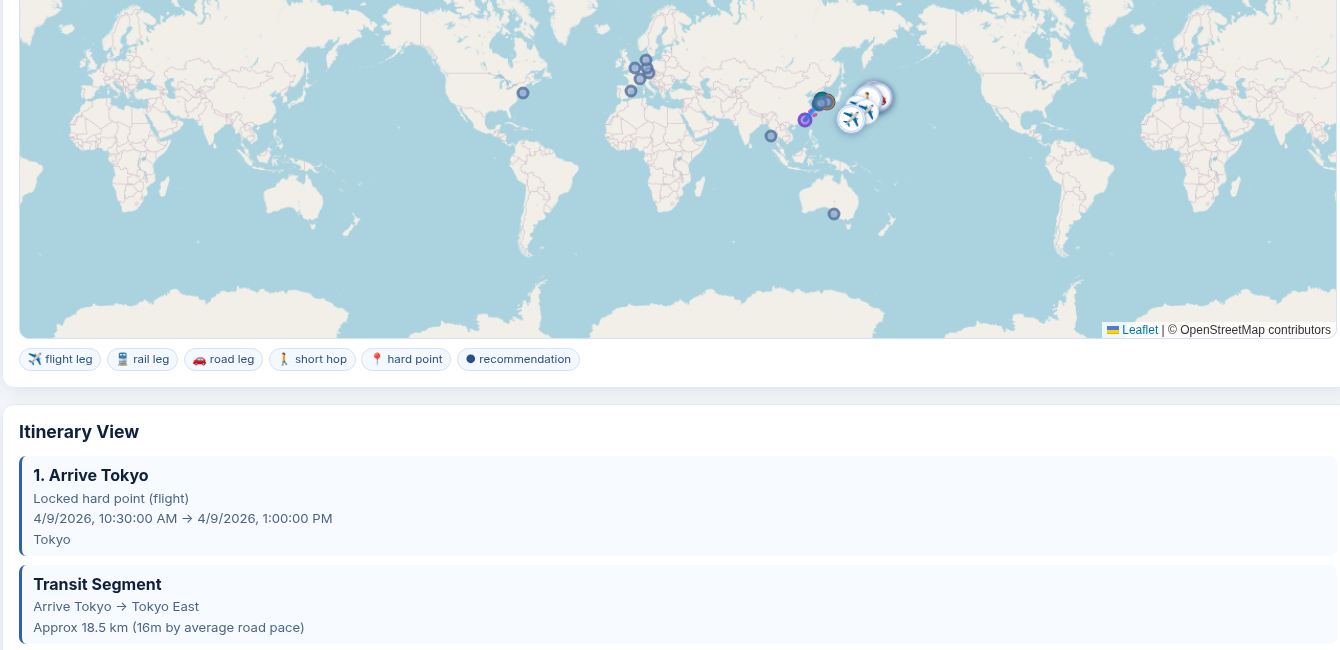
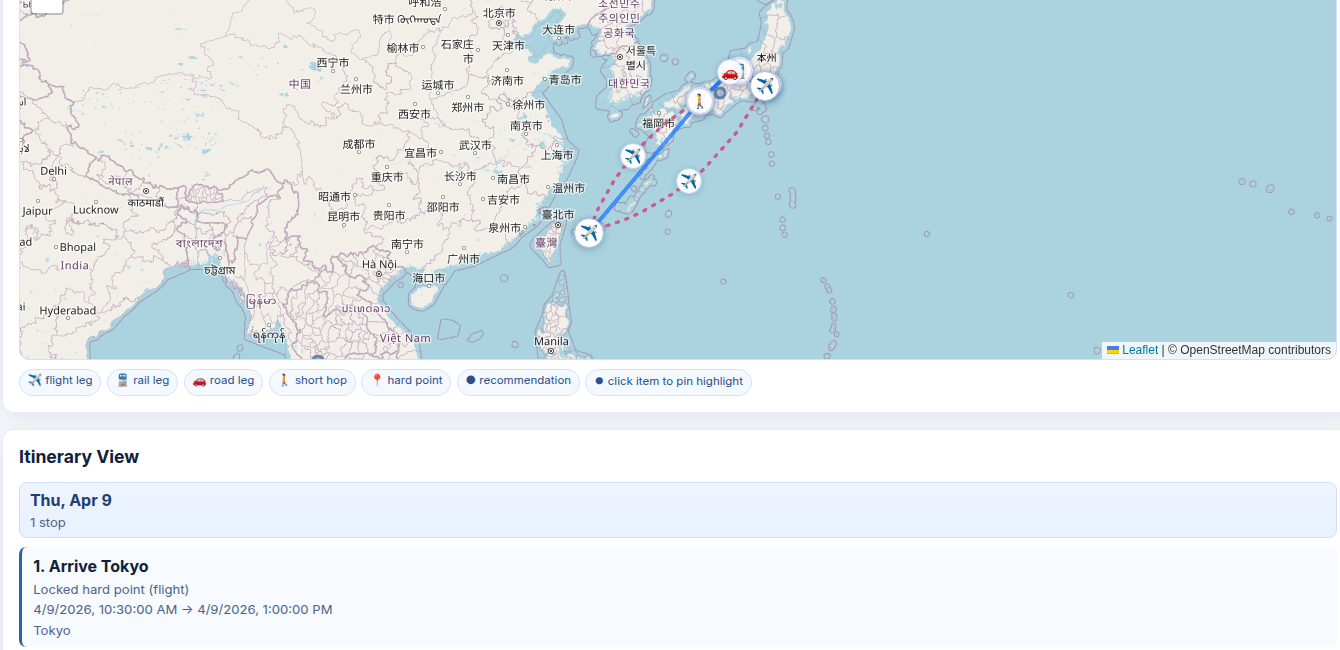
Add repeatable screenshot iteration workflow and refreshed hero captures

diff --git a/screenshots/bootstrap-demo.html b/screenshots/bootstrap-demo.html
@@ -1,0 +1,167 @@
+<!doctype html>
+<html lang="en">
+<head>
+  <meta charset="utf-8">
+  <meta name="viewport" content="width=device-width, initial-scale=1">
+  <title>TripMind demo bootstrap</title>
+</head>
+<body>
+  <p>Loading demo state…</p>
+  <script>
+    const STORAGE_KEY = "mindtrip_state_v1";
+    const state = {
+      profile: {
+        name: "Alex Explorer",
+        homeBase: "Berlin",
+        budget: "mid",
+        pace: "balanced",
+        interests: ["architecture", "hiking", "art", "food", "events"],
+      },
+      tripContext: {
+        startDate: "2026-04-09",
+        endDate: "2026-05-01",
+        primaryDestination: "Japan",
+        mustInclude: ["architecture", "hike", "art", "onsen"],
+        avoid: ["crowded tours"],
+        styleNotes: "Two anchor experiences per day with flexible evenings.",
+        likedExamples: [
+          "MTB downhill near a volcano in Arequipa",
+          "Insel Hombroich and Boros collection",
+          "Hiking near Karakol",
+        ],
+        inferredIdeas: ["Tokyo urban + design", "Naoshima art immersion", "island buffer days"],
+      },
+      conversation: {
+        mode: "main-planning",
+        sideTrackTopic: "",
+        messages: [
+          {
+            id: "msg-demo-1",
+            role: "assistant",
+            text: "I prepared high-fit directions. Click one option to pin linked highlights across map, itinerary and cards.",
+            when: "2026-03-15T10:00:00.000Z",
+            options: [
+              {
+                id: "conv-opt-1",
+                entityKey: "llm-1",
+                linkKey: "link:naoshima-art-loop@naoshima",
+                title: "Naoshima art loop",
+                kind: "activity",
+                city: "Naoshima",
+                reason: "High fit with architecture + contemporary art taste.",
+                tags: ["art", "architecture", "museum"],
+              },
+              {
+                id: "conv-opt-2",
+                entityKey: "ev-1",
+                linkKey: "link:shimokitazawa-night-jazz@tokyo",
+                title: "Shimokitazawa night jazz",
+                kind: "event",
+                city: "Tokyo",
+                reason: "Event-led evening with low transition cost.",
+                tags: ["event", "music", "nightlife"],
+              },
+            ],
+          },
+        ],
+        learnedLikes: { architecture: 5, art: 4, hike: 3, market: 2 },
+        learnedDislikes: { crowded: 2 },
+      },
+      hardPoints: [
+        { id: "hp-1", title: "Arrive Tokyo", type: "flight", start: "2026-04-09T10:30", end: "2026-04-09T13:00", city: "Tokyo", locationLabel: "Haneda Airport", lat: 35.5494, lng: 139.7798, bookingRef: "HND409", notes: "Airport transfer booked", createdAt: "2026-03-01T10:00:00.000Z" },
+        { id: "hp-2", title: "Alpine Route day", type: "tour", start: "2026-04-16T07:00", end: "2026-04-16T20:00", city: "Toyama", locationLabel: "Tateyama Kurobe Alpine Route", lat: 36.5753, lng: 137.4812, bookingRef: "ALP416", notes: "Fixed booking", createdAt: "2026-03-01T10:01:00.000Z" },
+        { id: "hp-3", title: "Naoshima stay", type: "hotel", start: "2026-04-19T15:00", end: "2026-04-23T10:00", city: "Naoshima", locationLabel: "Honmura district", lat: 34.4592, lng: 133.9978, bookingRef: "NSH419", notes: "Island base", createdAt: "2026-03-01T10:02:00.000Z" },
+        { id: "hp-4", title: "Fly to Ishigaki", type: "flight", start: "2026-04-23T12:30", end: "2026-04-23T15:30", city: "Ishigaki", locationLabel: "Painushima Ishigaki Airport", lat: 24.3968, lng: 124.2451, bookingRef: "ISG423", notes: "", createdAt: "2026-03-01T10:03:00.000Z" },
+        { id: "hp-5", title: "Fly back Tokyo", type: "flight", start: "2026-04-26T11:00", end: "2026-04-26T14:00", city: "Tokyo", locationLabel: "Haneda Airport", lat: 35.5494, lng: 139.7798, bookingRef: "HND426", notes: "", createdAt: "2026-03-01T10:04:00.000Z" },
+      ],
+      routeSets: [
+        {
+          id: "set-1",
+          name: "Japan main route",
+          description: "Primary hubs and transitions",
+          active: true,
+          createdAt: "2026-03-01T10:05:00.000Z",
+          nodes: [
+            { id: "node-1", title: "Tokyo East", type: "district", city: "Tokyo", locationLabel: "Asakusa + Ueno belt", lat: 35.7156, lng: 139.7967, start: "2026-04-10T09:00", end: "", notes: "", tags: ["architecture", "market"], sourceKind: "route-node", createdAt: "2026-03-01T10:05:30.000Z" },
+            { id: "node-2", title: "Kanazawa art day", type: "main-location", city: "Kanazawa", locationLabel: "21st Century Museum area", lat: 36.5608, lng: 136.6566, start: "2026-04-17T10:00", end: "", notes: "", tags: ["art", "design"], sourceKind: "route-node", createdAt: "2026-03-01T10:06:00.000Z" },
+          ],
+        },
+      ],
+      plannedStops: [
+        { id: "plan-1", title: "Boros-style private collection visit", type: "art", sourceKind: "llm-itinerary", start: "2026-04-11T14:00", end: "2026-04-11T16:00", city: "Tokyo", locationLabel: "Roppongi contemporary gallery", lat: 35.6629, lng: 139.7312, bookingRef: "", notes: "Generated from taste memory", createdAt: "2026-03-01T10:07:00.000Z" },
+        { id: "plan-2", title: "Chiba village overnight (no planning)", type: "no-planning", sourceKind: "interleave", start: "2026-04-14T18:00", end: "2026-04-15T10:00", city: "Chiba", locationLabel: "Countryside stay", lat: 35.6074, lng: 140.1065, bookingRef: "", notes: "", createdAt: "2026-03-01T10:08:00.000Z" },
+        { id: "plan-3", title: "Naoshima architecture bike circuit", type: "hike", sourceKind: "detail-stop", start: "2026-04-20T09:00", end: "2026-04-20T13:00", city: "Naoshima", locationLabel: "Art House Project + coast route", lat: 34.4596, lng: 133.9967, bookingRef: "", notes: "", createdAt: "2026-03-01T10:09:00.000Z" },
+        { id: "plan-4", title: "Ishigaki reef + hill trail", type: "nature", sourceKind: "llm-itinerary", start: "2026-04-24T08:30", end: "2026-04-24T14:00", city: "Ishigaki", locationLabel: "Kabira Bay + Nosoko hike", lat: 24.4509, lng: 124.1572, bookingRef: "", notes: "", createdAt: "2026-03-01T10:10:00.000Z" },
+      ],
+      softPois: [
+        { id: "poi-1", title: "Shimokitazawa night jazz", kind: "event", sourceKind: "event", city: "Tokyo", locationQuery: "Shimokitazawa jazz club", startHint: "2026-04-12T20:30", notes: "Tentative option", tags: ["event", "music", "nightlife"], lat: 35.6617, lng: 139.6689, createdAt: "2026-03-01T10:11:00.000Z" },
+      ],
+      customSuggestions: [
+        { id: "custom-1", title: "Tokyo brutalist architecture walk", city: "Tokyo", tags: ["architecture", "walking"], budget: "mid", pace: "balanced", type: "custom", lat: 35.6702, lng: 139.7631, description: "User-created suggestion." },
+      ],
+      lastPlaces: [
+        { id: "lp-1", title: "TeamLab Borderless", city: "Tokyo", kind: "main-location", category: "art", description: "Immersive art museum", tags: ["art", "museum"], lat: 35.6269, lng: 139.7845 },
+        { id: "lp-2", title: "Naoshima Art House", city: "Naoshima", kind: "trip", category: "architecture", description: "Island art route", tags: ["architecture", "art"], lat: 34.4602, lng: 133.9956 },
+      ],
+      lastEvents: [
+        { id: "ev-1", title: "Shimokitazawa Night Jazz", city: "Tokyo", date: "2026-04-12", category: "music", venue: "Basement stage", tags: ["music", "nightlife"], lat: 35.6618, lng: 139.6687 },
+      ],
+      lastLlmResults: [
+        { id: "llm-1", title: "Naoshima art loop", kind: "main-location", city: "Naoshima", date: "2026-04-20", startHint: "2026-04-20T09:00", tags: ["art", "architecture"], description: "High-fit match", locationQuery: "Naoshima", lat: 34.4598, lng: 133.9974 },
+      ],
+      lastUnifiedSearch: {
+        query: "architecture + event mix",
+        routeNodes: [{ id: "ur-1", title: "Kanazawa design district", city: "Kanazawa", kind: "main-location", tags: ["design", "architecture"], description: "Route-level candidate", lat: 36.5621, lng: 136.6624 }],
+        detailStops: [{ id: "ud-1", title: "Ando museum stop", city: "Naoshima", kind: "detail-place", tags: ["architecture", "museum"], description: "Detail candidate", lat: 34.4588, lng: 133.9972 }],
+        generatedAt: "2026-03-15T10:20:00.000Z",
+      },
+      outlineDraft: {
+        blocks: [
+          { id: "outline-1", label: "Tokyo pre-Alpine", start: "2026-04-10T08:00:00.000Z", end: "2026-04-15T20:00:00.000Z", hours: 84, city: "Tokyo", theme: "architecture", reason: "Urban + market balance", tags: ["architecture", "market"] },
+          { id: "outline-2", label: "Post-Naoshima buffer", start: "2026-04-23T16:00:00.000Z", end: "2026-04-26T10:00:00.000Z", hours: 66, city: "Ishigaki", theme: "nature", reason: "Recovery + adventure mix", tags: ["nature", "hike"] },
+        ],
+        strategies: [
+          { id: "strategy-1", title: "Balanced mix: architecture + food", reason: "Day split with flexible evenings", tags: ["architecture", "food", "balanced"] },
+          { id: "strategy-2", title: "Event-led evenings", reason: "Keep afternoons open for local events", tags: ["event", "nightlife", "music"] },
+          { id: "strategy-3", title: "Nature-heavy island buffer", reason: "Use Ishigaki for hikes + coast", tags: ["nature", "hike", "water"] },
+        ],
+        generalStrategy: { title: "Balanced mix: architecture + food", tags: ["architecture", "food"], updatedAt: "2026-03-15T10:21:00.000Z" },
+        blockTweaks: { "outline-2": { title: "Nature-heavy island buffer", tags: ["nature", "hike"], updatedAt: "2026-03-15T10:22:00.000Z" } },
+        focusedBlockId: "",
+        updatedAt: "2026-03-15T10:22:00.000Z",
+      },
+      routeComparison: {
+        mode: "whole-trip",
+        generatedAt: "2026-03-15T10:30:00.000Z",
+        results: [{ profile: "driving", distanceKm: 312.4, durationMinutes: 378, geometry: [[35.71, 139.80], [36.56, 136.66], [34.46, 134.0], [24.40, 124.25]], alternatives: [{ label: "Alt 1", distanceKm: 328, durationMinutes: 405 }] }],
+      },
+      expertSettings: {
+        plannerMode: "expert-balanced",
+        suggestionCount: 12,
+        dailyStopTarget: 3,
+        hardPointBufferHours: 1.5,
+        eventIntensity: 3,
+        transportBias: "balanced",
+        groupItineraryByDay: true,
+        mapAutoFit: true,
+        mapFocusMode: "trip-core",
+        showRecommendationLayer: true,
+        persistentSelection: true,
+      },
+      llm: { provider: "openai-compatible", endpoint: "https://openrouter.ai/api/v1/chat/completions", model: "openai/gpt-5-mini", deployment: "", apiVersion: "2025-01-01-preview", apiKey: "", enabled: false },
+      memory: {
+        itemRatings: { "llm-1": 5, "ev-1": 4, "plan-3": 5 },
+        ratingsHistory: [
+          { itemId: "llm-1", title: "Naoshima art loop", rating: 5, kind: "llm-main-location", tags: ["art", "architecture"], city: "Naoshima", when: "2026-03-10T10:00:00.000Z" },
+          { itemId: "ev-1", title: "Shimokitazawa Night Jazz", rating: 4, kind: "event", tags: ["music", "nightlife"], city: "Tokyo", when: "2026-03-11T10:00:00.000Z" },
+        ],
+        tagScores: { architecture: 6, art: 5, hike: 4, event: 3, music: 2, crowded: -3 },
+        cityScores: { tokyo: 4, naoshima: 5, ishigaki: 3 },
+      },
+    };
+
+    localStorage.setItem(STORAGE_KEY, JSON.stringify(state));
+    location.replace("/index.html");
+  </script>
+</body>
+</html>

diff --git a/README.md b/README.md
@@ -123,9 +123,12 @@ Then open:
 - `src/constants.js` - static configuration and seeded travel data catalogs
 - `src/utils.js` - shared utility helpers (IDs, tags, date/time, distance, formatting)
 - `src/interaction.js` - shared interaction primitives (entity-link keys + cross-component highlight controller)
+- `scripts/capture_demo_screenshots.sh` - regenerates demo-filled hero screenshots for UI iteration
+- `screenshots/bootstrap-demo.html` - localStorage bootstrap page used by screenshot workflow
 
 ## Notes
 
 - Browser `localStorage` is used to persist profile, hard points, interleaved stops, memory scores, ratings, and custom suggestions.
 - LLM API key is stored in browser localStorage for convenience in this MVP.
 - External map/routing/geocoding data depends on availability of public services.
+- UI iteration screenshots can be refreshed with `./scripts/capture_demo_screenshots.sh`.

diff --git a/screenshots/README.md b/screenshots/README.md
@@ -2,6 +2,16 @@
 
 Generated showcase images for the current prototype UI.
 
+## Regenerate after each improvement
+
+Use:
+
+```bash
+./scripts/capture_demo_screenshots.sh
+```
+
+It loads `bootstrap-demo.html` (demo state), captures a full screenshot, and refreshes hero crops.
+
 ## Hero set
 
 - `10-demo-full.png` – full app with populated demo state
